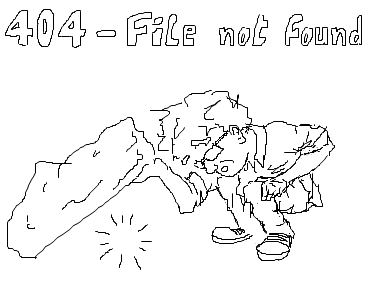
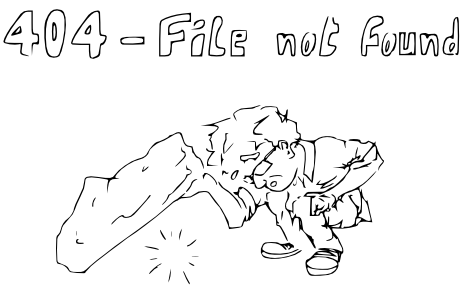
Changed 404 image to SVG stroke

diff --git a/404.html b/404.html
@@ -5,7 +5,7 @@
 <body>
 <div style="position: absolute; top: 50%; left: 50%;">
   <!--<h1 style="font-family: sans-serif; color: #333;">404 - Not found</h1>-->
-<img src="/images/404.png" alt="Error 404 - Not found" style="margin-left: -175.5px; margin-top: -142.5px; " />
+<img src="/images/404.png" alt="Error 404 - Not found" style="margin-left: -233.5px; margin-top: -151px; " />
 </div>
 </body>
 </html>

diff --git a/_posts/2011-11-22-404-image.md b/_posts/2011-11-22-404-image.md
@@ -1,7 +1,7 @@
 ---
 layout: post
 title: 404 Image
-image: [https://lh3.googleusercontent.com/-cdUoYHg10l8/TstUanBBNXI/AAAAAAAAAXM/cphAIvTOApA/404.png, 404 Image]
+image: [https://lh5.googleusercontent.com/-_WGmfsdNVAY/TsxyOa0f6QI/AAAAAAAAAXc/EfpB0zv_seM/404-under-rock.png, 404 Image]
 ---
 
 A sketch I drew for the [404 page](/404.html).
